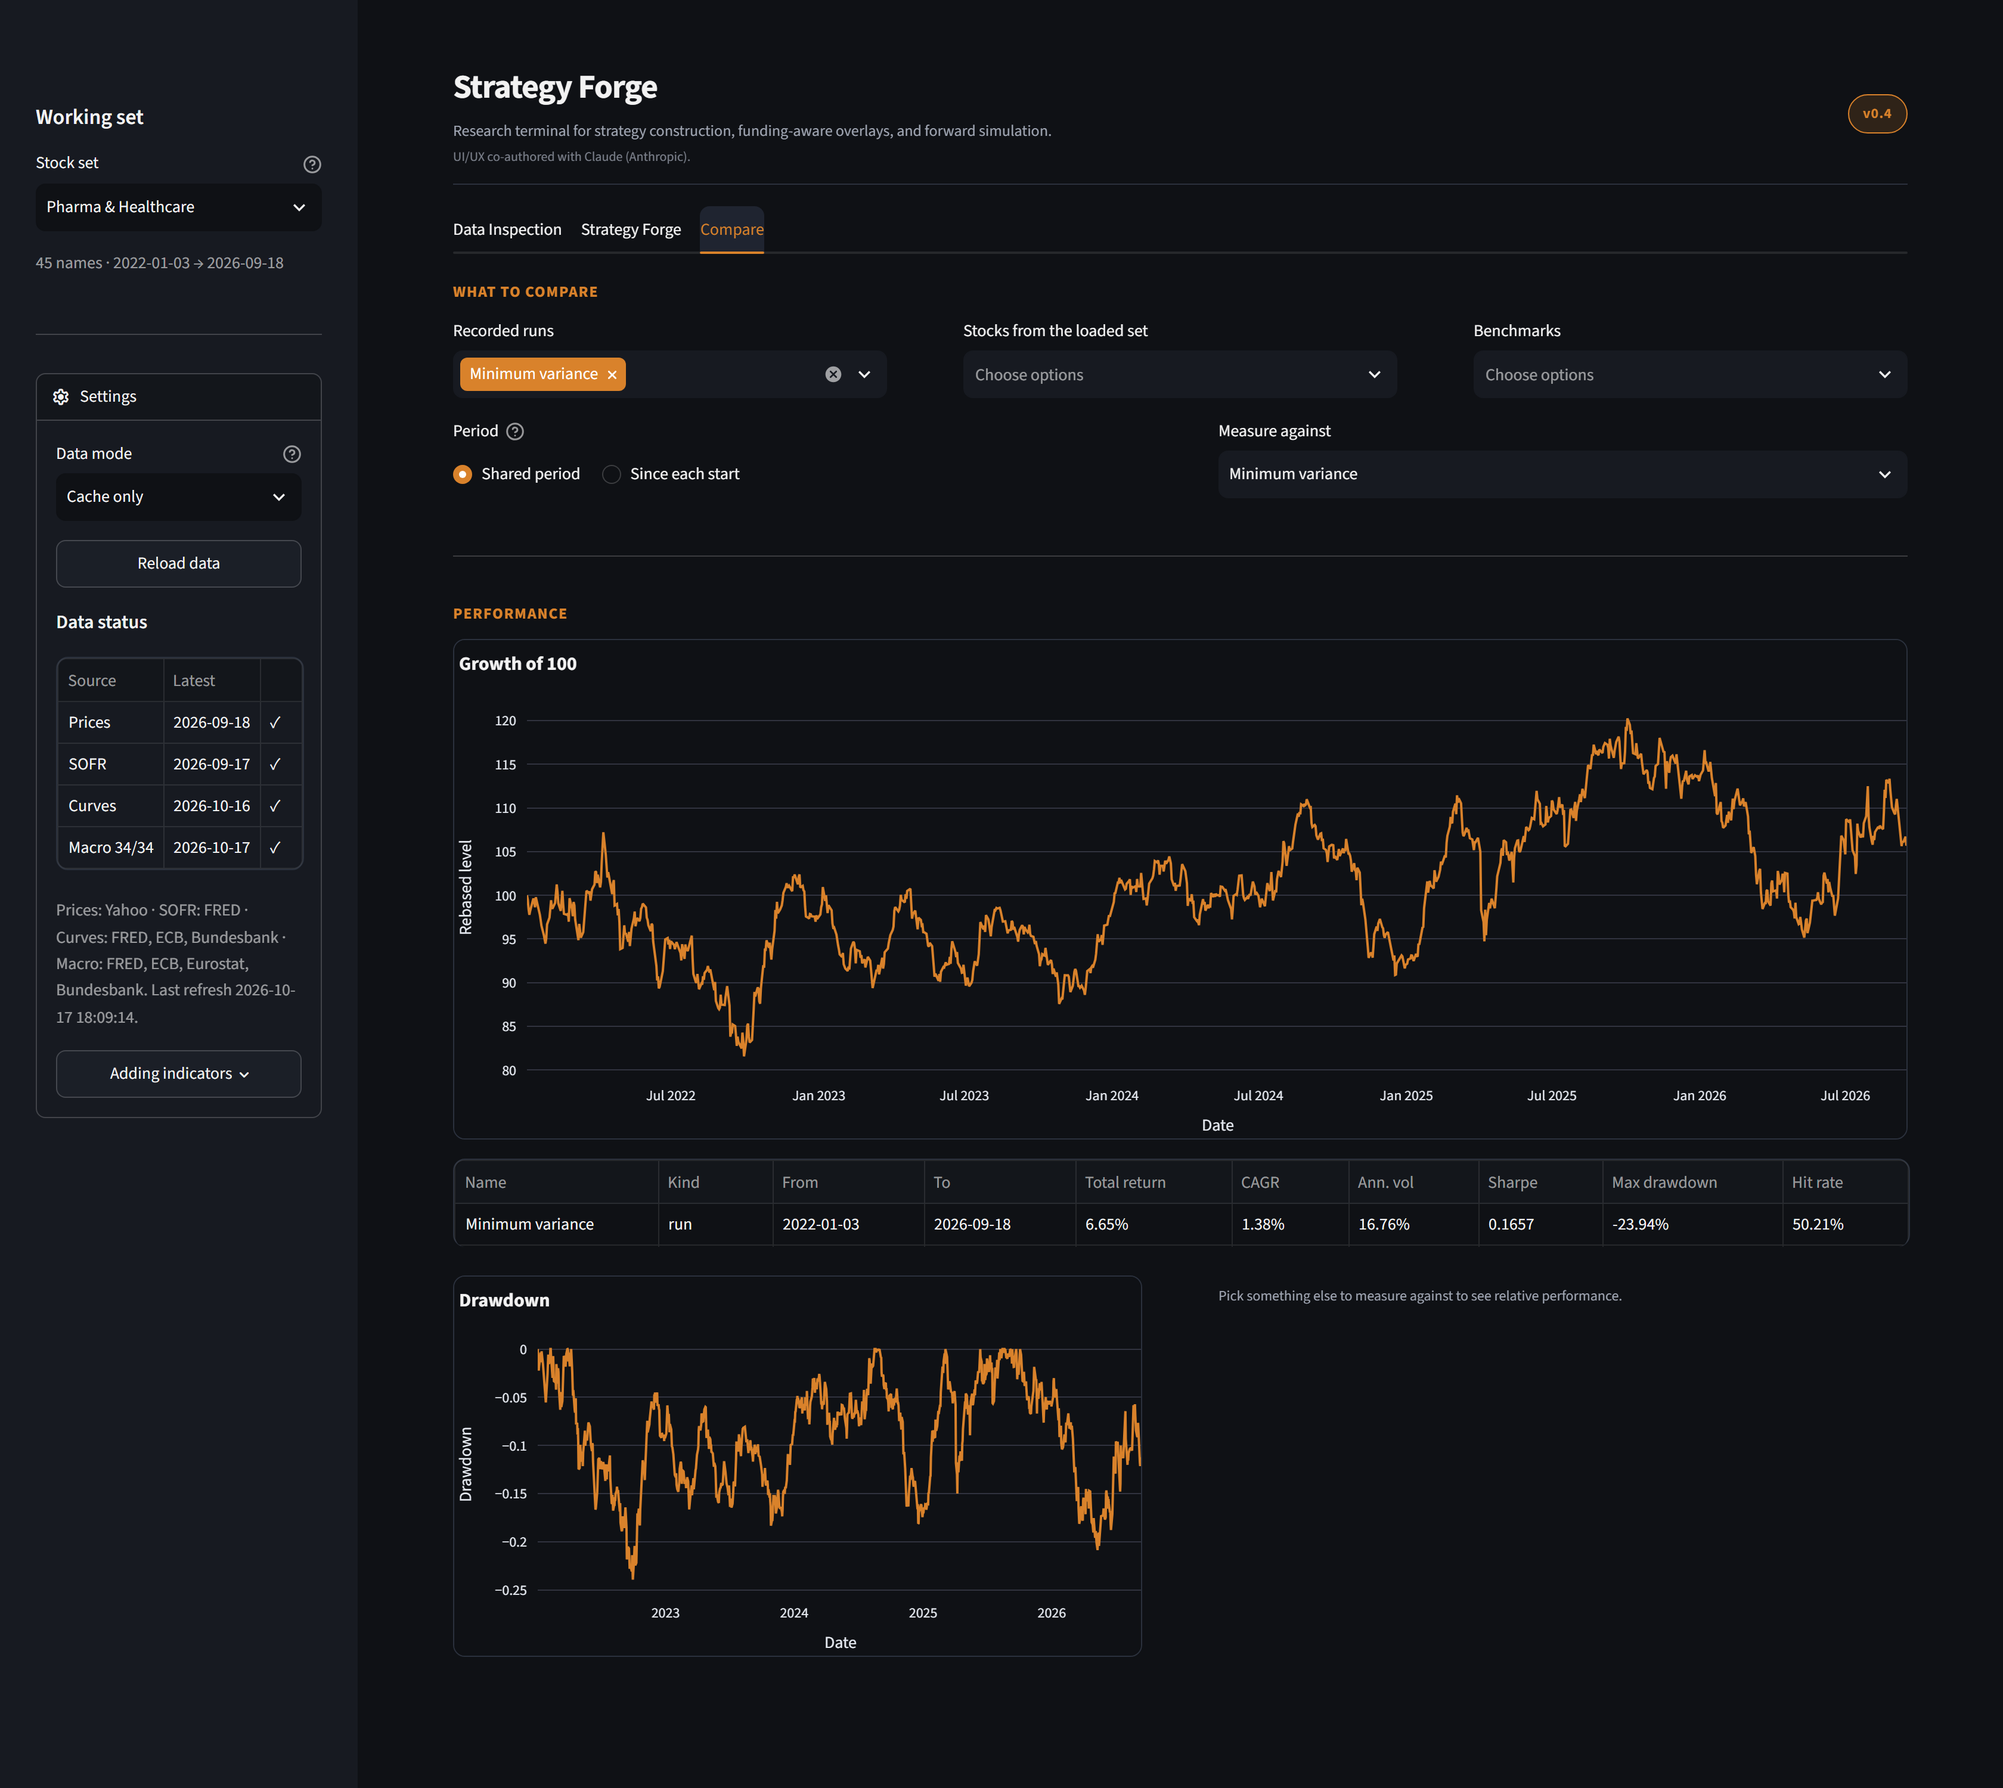
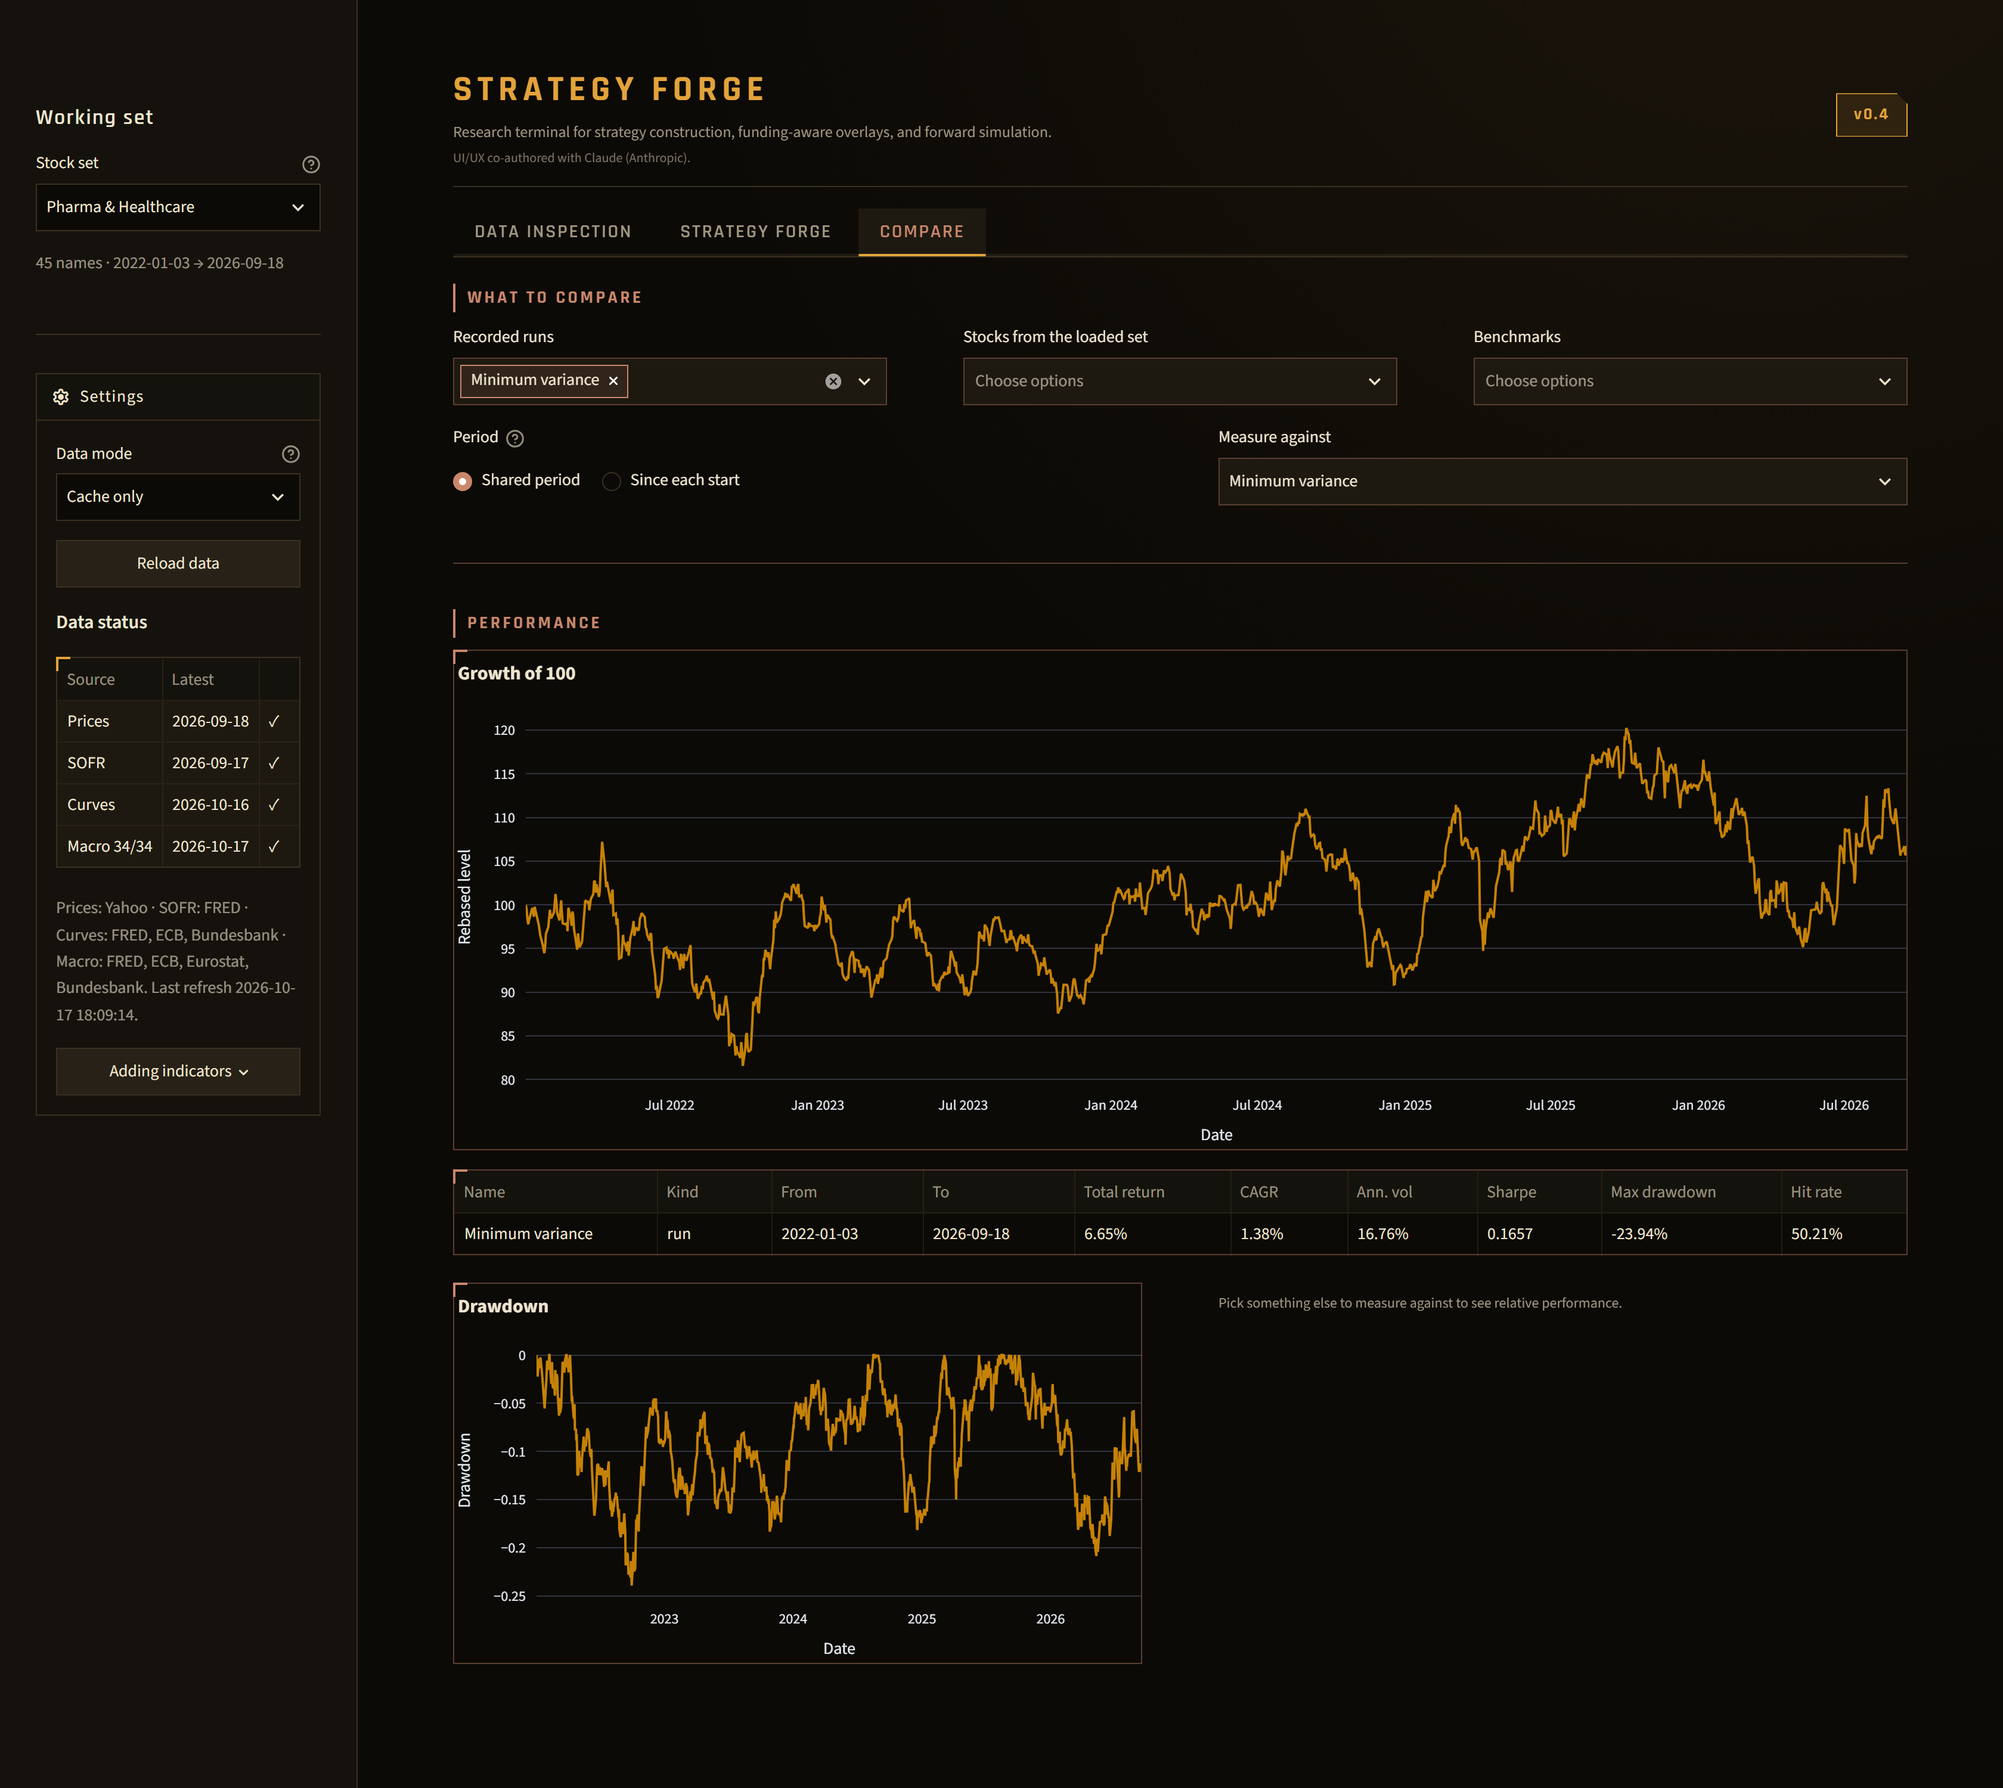
|docs| UAT and screenshots

diff --git a/docs/UAT.md b/docs/UAT.md
@@ -1,0 +1,149 @@
+# Strategy Forge v0.4 — User Acceptance Tests
+
+| | |
+| --- | --- |
+| Build | after `574af9d` (comparison, square corners, warm theme), branch `strategy-forge-v.04` |
+| Start | `uv run streamlit run app.py`, browser at full width, then once at ~1280 px (laptop) |
+| Data | Start in **Cache only**. Section A needs network. |
+| Saved work | Prefix everything you save with `UAT` so it is easy to delete afterwards |
+| Result | Tick `[x]`, or write what happened next to the line |
+
+Each line: **what to do** → what should happen.
+
+---
+
+## A. Data and settings (sidebar)
+
+- [ ] **A1** Open the app → sidebar shows *Working set* with the stock set and a line `N names · start → end`; *Settings* is closed.
+- [ ] **A2** Open *Settings* → Data mode, Reload data, Data status table (Prices, SOFR, Curves, Macro 34/34), each with a date and ✓; no clipped column.
+- [ ] **A3** Hover every ⓘ / ? in the sidebar → each has a readable explanation.
+- [ ] **A4** Switch Data mode to *Refresh, fall back to cache*, press Reload → app reloads, dates in Data status move to today or the last business day; nothing breaks.
+- [ ] **A5** Same in *Refresh, fail on errors* → reloads; no error if all sources answer.
+- [ ] **A6** Disconnect from the network, *Refresh, fall back to cache*, Reload → app still loads from cache; Curves / Macro show ⚠ with a count; a warning appears on Rates or Macro, not a crash.
+- [ ] **A7** Same offline, *Refresh, fail on errors* → a clear error for prices or rates that says a cache exists; macro and curve failures are listed, not fatal. Reconnect afterwards.
+- [ ] **A8** Open *Adding indicators* → shows the CSV path and the check command.
+- [ ] **A9** Switch the stock set (Pharma → Multi-asset → Mega-cap → Diversified) → range line updates each time, no error, no names from the previous set left anywhere.
+
+## B. Navigation
+
+- [ ] **B1** Main tabs Data Inspection / Strategy Forge / Compare look different from the pills below them (tabs underlined, pills boxed).
+- [ ] **B2** Click the selected pill again (e.g. *Rates*) → it does not leave an empty page.
+- [ ] **B3** Switch tabs back and forth → settings you made on each tab are still there.
+- [ ] **B4** Header shows `v0.4` and "UI/UX co-authored with Claude (Anthropic)."
+
+## C. Data Inspection — Rates
+
+- [ ] **C1** Curve = USD Treasury, view = Snapshot → two curves (today and a year ago), change bars, strip with SOFR, 2Y, 10Y, 30Y, 2s10s and bp changes.
+- [ ] **C2** Change *Snapshot date* and *Compare with* → curves, bars and strip all move together; dates outside the data cannot be picked.
+- [ ] **C3** Curve = EUR AAA government → strip shows €STR; tenors 3M–30Y; numbers plausible (2–4%).
+- [ ] **C4** Curve = German Bunds → €STR; tenors 1Y–30Y; no 3M in the charts.
+- [ ] **C5** Surface → 3D surface rotates and zooms; maturities spread out (short end not squashed).
+- [ ] **C6** Surface → Heatmap → Yield, then 21-day change → change map is orange/blue around grey.
+- [ ] **C7** History → pick and remove tenors; yields, spreads (pp) and funding rate charts update.
+- [ ] **C8** Factors → Principal components, Daily / Weekly / Monthly → loadings, variance explained (Level ≫ Slope > Curvature), cumulative factor moves.
+- [ ] **C9** Factors → add 1M back into the tenors (USD) → Slope loading becomes dominated by 1M (expected; the reason it is excluded by default).
+- [ ] **C10** Factors → Spreads → Level chart and Slope/Curvature chart.
+- [ ] **C11** Moves → pair 2Y/10Y, window Weekly → sentence with the latest move and its kind; scatter, counts table, timeline. Shares add to 100%.
+- [ ] **C12** Moves → raise *Parallel band* to 10 bp → more *Parallel* moves in the table.
+- [ ] **C13** Moves on Bunds → pair list has no 3M/10Y.
+- [ ] **C14** Window 1Y / 3Y / 5Y / 10Y / Max → Surface, History, Factors and Moves cut accordingly; Snapshot dates unaffected.
+- [ ] **C15** Every ⓘ / ? on Rates explains its control (Curve, Show as, Method, Horizon, Tenors, Pair, Band, the moves legend).
+
+## D. Data Inspection — Universe
+
+- [ ] **D1** Overview → table grouped by asset class; on Multi-asset all 7 classes appear, with descriptions for the ETFs.
+- [ ] **D2** Performance → up to 8 names; a 9th cannot be added; growth of 100 and drawdowns.
+- [ ] **D3** Correlation → heatmap ordered by class; on Multi-asset the bond block and the equity block are visible.
+- [ ] **D4** Single name → ticker with description, asset class, statistics, price, returns histogram, drawdown.
+- [ ] **D5** Window presets apply to all four views.
+- [ ] **D6** On a single-class set (Pharma) the names in Performance have no "· Equities" suffix.
+
+## E. Data Inspection — Macro
+
+- [ ] **E1** Region and Category filters shrink the table and the Indicator list together.
+- [ ] **E2** Tick one row → that indicator opens below; then pick another in the dropdown → the dropdown wins and does not jump back.
+- [ ] **E2a** Tick two rows → *Comparing 2 indicators* panel with *One scale · Own scales · Two axes · Scatter*; inspector shows the row ticked last.
+- [ ] **E2b** One scale with a rate and a level ticked → only *Standardised* offered; with two levels → *Change on a year earlier* offered too. Hover shows the actual value and unit.
+- [ ] **E2c** Own scales → one panel per indicator, own units, hover shows the date across panels.
+- [ ] **E2d** Two axes → left and right axes coloured like their lines; ⓘ warns not to read crossings.
+- [ ] **E2e** Scatter → points coloured oldest to latest, latest ringed, correlation and month count in the title.
+- [ ] **E2f** Tick five rows → warning, first four compared. Tick three → *Two axes* and *Scatter* disappear.
+- [ ] **E2g** *Clear* unticks every row and hides the panel.
+- [ ] **E3** Level / Change on previous period / Change on a year earlier / Index = 100 → main chart and the complementary chart below change; monthly changes show as bars, daily as lines.
+- [ ] **E4** A rate (US unemployment) → no *Index* option; changes in **pp**. A level (US CPI) → changes in **%**.
+- [ ] **E5** Key figures: latest, period, both changes, 10y low/high, place in range — plausible for 3 indicators of your choice.
+- [ ] **E6** *Source* expander → provider, series key, frequency, fetched time.
+- [ ] **E7** *Data* expander → Download CSV opens in Excel with level, change_period, change_year from the window start.
+- [ ] **E8** Window presets change the charts; Max on US GDP reaches back to 1990.
+- [ ] **E9** Spot-check 3 values against the source website (e.g. FRED UNRATE, ECB HICP via Eurostat, Bund 10Y).
+
+## F. Strategy Forge — build
+
+- [ ] **F1** Opening the tab shows Library and Recorded runs buttons, holdings, construction, latest weights, and the backtest on the first screen (or one scroll on a laptop).
+- [ ] **F2** Asset classes: remove a class → its names disappear from Names; add it back → all its names return.
+- [ ] **F3** Remove every class → "Select at least one name" warning, no crash.
+- [ ] **F4** Names: add and remove single names → weights table and backtest update.
+- [ ] **F5** Method list shows names first, codes after (e.g. "Minimum Variance · CM.1.0").
+- [ ] **F6** Equal weight → Lookback greyed out; Inverse volatility → Lookback active; an optimizer → Lookback greyed out and *Optimizer options* appears.
+- [ ] **F7** Weight cap 20% on 6 names, Equal → still equal (16.7%); cap 10% → warning-free, weights capped and redistributed as far as possible.
+- [ ] **F8** Net exposure 80% → latest weights sum to 80%; Exposure diagnostic shows 0.8.
+- [ ] **F9** Net exposure: long-only cannot go above 100; switch an optimizer to Long/short → can go above 100; back to Long-only → value clamps to 100.
+- [ ] **F10** Optimizer options: form, covariance lookback, estimator, min weight, PM max weight, (Max Sharpe) risk-free rate, (Long/short) max gross and short financing spread — each has a ⓘ explanation.
+- [ ] **F11** PM max weight 10% with Weight cap 30% on Minimum variance → no name above 10%.
+- [ ] **F12** Start / End date → backtest window changes; End before Start → handled (no crash).
+- [ ] **F13** Every ⓘ in Construction explains its control; the two caps' texts say which one binds.
+
+## G. Strategy Forge — class budgets
+
+- [ ] **G1** On Pharma → *Class budgets* toggle disabled with "Needs names in at least two asset classes".
+- [ ] **G2** On Multi-asset → open *Class budgets*, switch on → table with all picked classes, equal split, total ≈ 100%.
+- [ ] **G3** Preset *60 / 40* → Equities 60, Government bonds 40, others 0; Asset classes diagnostic shows targets 60/40.
+- [ ] **G4** Preset *All weather* → 30 / 55 / 7.5 / 7.5.
+- [ ] **G5** Edit a cell so the total is 90% → orange "Total 90.0%, scaled to 100%"; backtest uses the scaled shares.
+- [ ] **G6** Set every budget to 0 → warning, budgets off, backtest still runs.
+- [ ] **G7** Budget for Gold but remove the Gold class from holdings → warning that its budget was shared out.
+- [ ] **G8** Names in a class with budget 0 → warning that they get no weight.
+- [ ] **G9** Risk parity with budgets → Diagnostics → Asset classes: each class sits at its target at rebalances and drifts in between.
+- [ ] **G10** Monte Carlo with budgets on → only *Strategy Return Bootstrap* offered; its ⓘ explains why.
+
+## H. Strategy Forge — results, saving, runs
+
+- [ ] **H1** Backtest ⓘ explains the assumptions (no costs, prior data only).
+- [ ] **H2** Record run with the name field empty → recorded as "<method> · <start> to <end>"; toast confirms.
+- [ ] **H3** Record run with a name → recorded under that name.
+- [ ] **H4** Recorded runs → open one → blue banner "Showing the recorded run…", Record row hidden, Monte Carlo says go back to live; *Back to live* returns.
+- [ ] **H5** Recorded runs → Delete → gone from the list and from Compare.
+- [ ] **H6** Library → save a strategy (toggle off) → toast; reopen it after changing settings → settings restored, names unchanged.
+- [ ] **H7** Library → save a portfolio (toggle on) on Multi-asset → switch to Pharma → reopen → stock set switches back, names and asset classes restored.
+- [ ] **H8** Save a strategy with class budgets and 80% net exposure → change both → reopen → budgets table and net exposure restored.
+- [ ] **H9** Open a strategy saved **before** this build (from `saved_strategies/`) → loads; no budgets; nothing errors.
+- [ ] **H10** Save with an empty name → warning that stays (not a toast).
+- [ ] **H11** Open a run recorded before a data refresh (do A4 after recording) → stale warning with *Keep* / *Re-run* explanations.
+- [ ] **H12** Toolbar shows "Open: <name>" after opening or saving.
+
+## I. Strategy Forge — diagnostics and Monte Carlo
+
+- [ ] **I1** Diagnostics tabs Exposure, Asset classes, Concentration, Turnover, Drawdowns all draw; Concentration has a ⓘ for top_5 / hhi.
+- [ ] **I2** Optimizer method → *What the optimizer did · n of m rebalances solved* closed; opening it shows the table.
+- [ ] **I3** Volatility target closed by default; switch on → overlay charts appear under the backtest; each field has a ⓘ.
+- [ ] **I4** Monte Carlo closed by default; open, Run → fan chart, five metrics, method and funding caption.
+- [ ] **I5** Funding = Monte Carlo with vol target on → *Show funding paths* toggle shows paths.
+- [ ] **I6** Change a setting after a simulation → "Settings changed since this run" note.
+
+## J. Compare
+
+- [ ] **J1** Open Compare after recording → only the newest run is preselected.
+- [ ] **J2** Add a stock and SPY → growth, statistics table, drawdown, relative-to chart, correlation heatmap.
+- [ ] **J3** In Cache only, pick a benchmark never downloaded → warning naming it and telling how to fetch it.
+- [ ] **J4** Shared period vs Since each start → charts change; disjoint series give the explanatory warning.
+
+## K. Overall
+
+- [ ] **K1** At ~1280 px width nothing overlaps or clips (sidebar table, pills, toolbar, budget table).
+- [ ] **K2** Browser refresh (F5) → app comes back on Data Inspection with defaults; saved work still listed.
+- [ ] **K3** No page in sections C–J shows long paragraphs; explanations are behind ⓘ.
+- [ ] **K5** Look: no rounded corners anywhere (buttons, inputs, tables, expanders, pills); warm black background; gold title and version badge with a cut corner.
+- [ ] **K6** Accents: Data Inspection gold, Strategy Forge ember, Compare copper-rose (section headers, tags, selected pills, corner brackets on charts).
+- [ ] **K4** Time yourself on the five tasks in `docs/USER_JOURNEY.md` §3 (B1–B5) → close to the measured times in §12.
+
+After testing: delete `UAT*` items from Library and Recorded runs.
